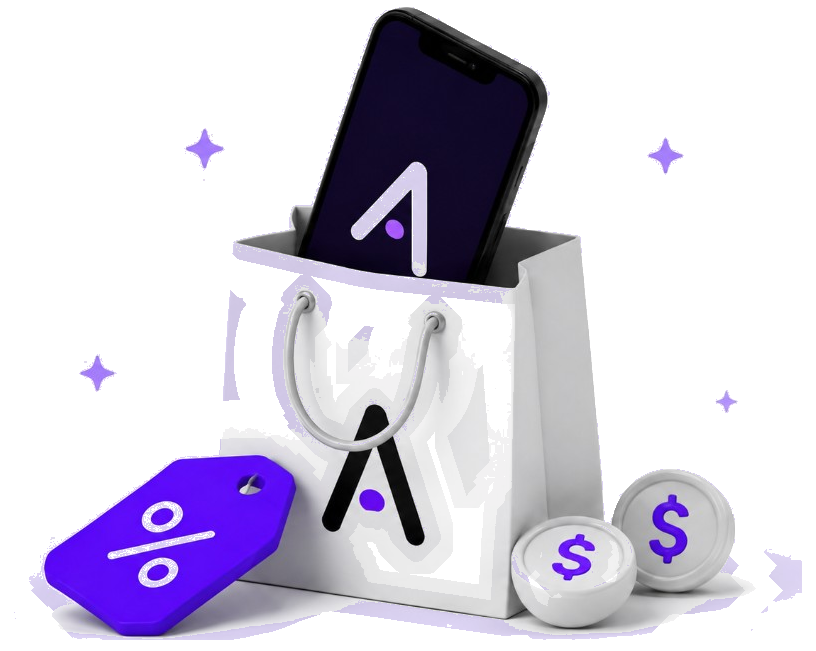
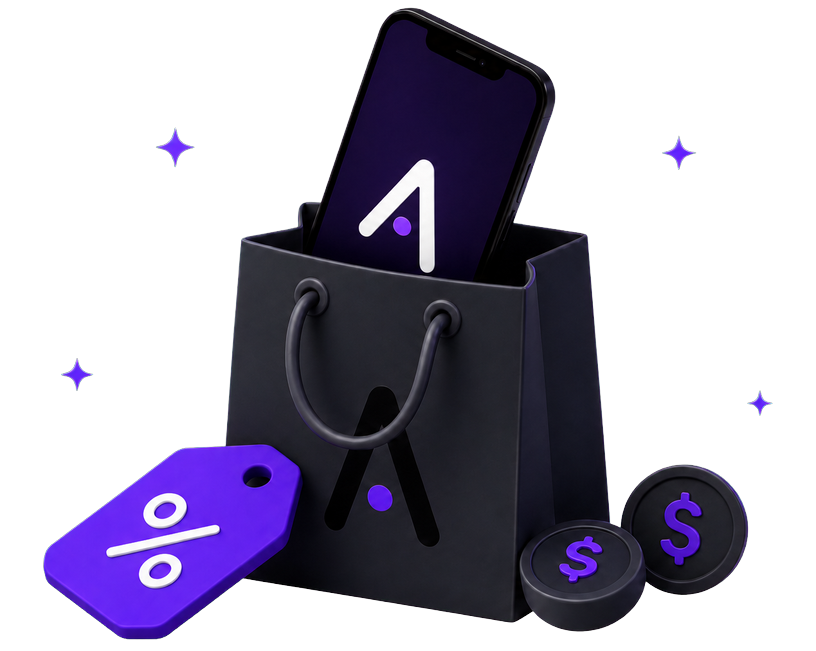
Dibuja el hero oscuro en grafito en vez de recortar la version clara.
Limpiar la alfa no bastaba: la bolsa, las asas y las monedas seguian siendo
blancas, asi que sobre el glass del hero se leian como una placa luminosa.
El asset dark ahora es una ilustracion propia en negros y grafitos, con los
acentos violeta intactos, encajada en el mismo lienzo 816x651 y el mismo
encuadre para no mover nada del layout. El modo claro no se toca.

diff --git a/app/globals.css b/app/globals.css
@@ -141,12 +141,12 @@ body {
 }
 
 /*
- * Dark: PNG con alfa limpia (mate negro bajo transparencia + sombra de
- * contacto atenuada). Sin gradiente de relleno detrás: con drop-shadow
- * ese halo se leía como rectángulo claro sobre el glass del hero.
+ * Dark: ilustración propia en grafito (no la clara recortada). La versión
+ * clara dejaba la bolsa y las monedas en blanco, que sobre el glass del hero
+ * se leían como una placa luminosa por más que se limpiara la alfa.
  */
 .dark .hero-art {
-  background-image: url('/brand/aventa-hero-dark.png?v=20260826d');
+  background-image: url('/brand/aventa-hero-dark.png?v=20260826e');
   background-position: bottom center;
   background-size: contain;
   filter: drop-shadow(0 18px 24px rgba(0, 0, 0, 0.45));
